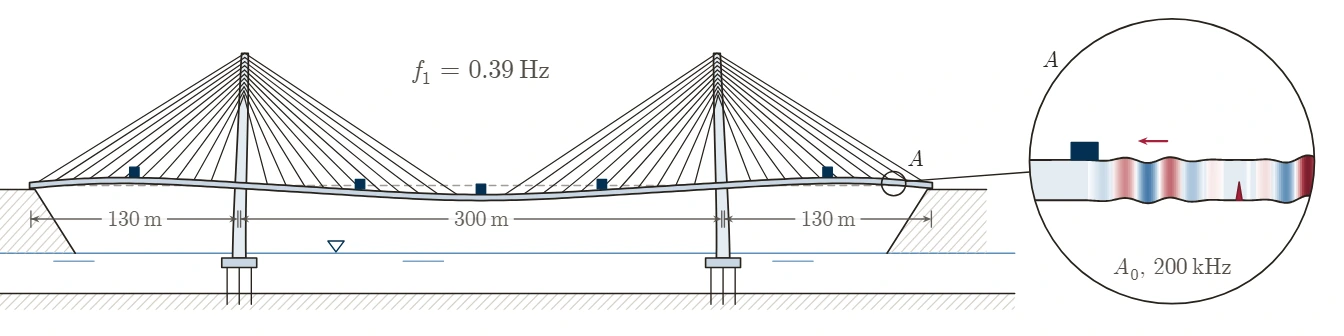
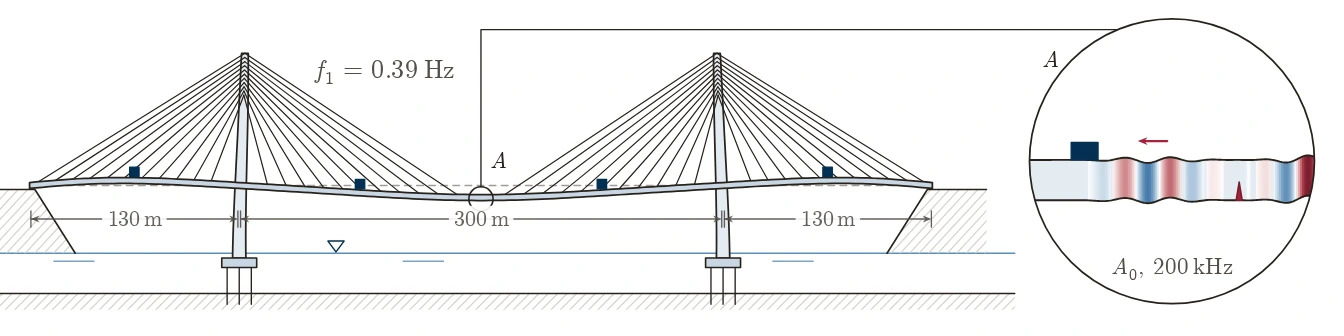
fix: detail A of the waves cover at the middle of the main span
The client (30 Sep 2026): A in the middle of the bridge, not at its edge.
Detail A now sits at mid main span, where the first mode bends the deck most
and its sagging puts the bottom flange in tension. Its leader rises between
the two fans of stays and runs over the pylon tops to the detail circle (a
straight line would cross the right pylon); the mode's frequency moves left
of it and the midspan accelerometer gives way to the detail. The overlap
check passes to the poster.

Claude-Session: https://claude.ai/code/session_01SQRfPKazL8R4BSZNKNMKJj

diff --git a/content/anim/nf-wt-cover.html b/content/anim/nf-wt-cover.html
@@ -30,7 +30,7 @@ html,body{margin:0;padding:0;background:#fff;}
 </div>
 <script>
 const W = 1000, H = 250;
-const DATA = {"f1":0.39225,"tot":560.0,"xp":[130.0,430.0],"hp":82.0,"hb":45.0,"deck":[[0.0,-0.0,-0.0],[4.0,-6.49906e-05,0.04841],[8.0,-0.00017451,0.0959],[12.0,-0.000284029,0.14172],[14.0,-0.000356144,0.16377],[18.0,-0.000535088,0.20578],[22.0,-0.000714027,0.24463],[26.0,-0.000918086,0.27987],[30.0,-0.00115,0.31119],[34.0,-0.00138,0.33837],[36.0,-0.0015,0.35035],[40.0,-0.00176,0.37103],[44.0,-0.00202,0.38733],[48.0,-0.00229,0.39925],[52.0,-0.00257,0.40685],[56.0,-0.00286,0.41028],[58.0,-0.003,0.41046],[62.0,-0.00328,0.40791],[66.0,-0.00357,0.40162],[70.0,-0.00386,0.39184],[74.0,-0.00415,0.3788],[78.0,-0.00443,0.36277],[80.0,-0.00457,0.35372],[84.0,-0.00485,0.33371],[88.0,-0.00514,0.31139],[92.0,-0.00541,0.28702],[96.0,-0.00569,0.26087],[100.0,-0.00596,0.23319],[102.0,-0.0061,0.21884],[106.0,-0.00637,0.18931],[110.0,-0.00664,0.15882],[114.0,-0.00691,0.12759],[118.0,-0.00718,0.09582],[122.0,-0.00744,0.06368],[126.0,-0.00771,0.03138],[130.0,-0.00798,-0.000916424],[134.0,-0.00825,-0.03305],[138.0,-0.00851,-0.06503],[142.0,-0.00878,-0.09692],[146.0,-0.00905,-0.12877],[150.0,-0.00931,-0.16065],[154.0,-0.00958,-0.1926],[158.0,-0.00984,-0.22466],[162.0,-0.0101,-0.25687],[166.0,-0.01036,-0.28926],[170.0,-0.01062,-0.32183],[174.0,-0.01088,-0.35459],[178.0,-0.01113,-0.38753],[182.0,-0.01138,-0.42061],[186.0,-0.01162,-0.45381],[190.0,-0.01186,-0.48707],[194.0,-0.01209,-0.52033],[198.0,-0.01232,-0.55351],[202.0,-0.01254,-0.58653],[206.0,-0.01275,-0.61927],[210.0,-0.01296,-0.65163],[214.0,-0.01316,-0.68348],[218.0,-0.01336,-0.71468],[222.0,-0.01354,-0.7451],[226.0,-0.01371,-0.77458],[230.0,-0.01388,-0.80296],[234.0,-0.01404,-0.83008],[238.0,-0.01419,-0.85578],[242.0,-0.01434,-0.87988],[246.0,-0.01447,-0.90222],[250.0,-0.01459,-0.92265],[254.0,-0.01471,-0.94098],[258.0,-0.01482,-0.95708],[262.0,-0.01491,-0.9708],[266.0,-0.01501,-0.98201],[270.0,-0.0151,-0.9906],[274.0,-0.01517,-0.99647],[278.0,-0.01525,-0.99953],[282.0,-0.01532,-0.99975],[286.0,-0.0154,-0.99712],[290.0,-0.01547,-0.99166],[294.0,-0.01556,-0.98347],[298.0,-0.01565,-0.97263],[302.0,-0.01575,-0.95924],[306.0,-0.01585,-0.94343],[310.0,-0.01597,-0.92535],[314.0,-0.01608,-0.90514],[318.0,-0.01621,-0.88296],[322.0,-0.01635,-0.85898],[326.0,-0.0165,-0.83336],[330.0,-0.01665,-0.80628],[334.0,-0.01682,-0.7779],[338.0,-0.01698,-0.74837],[342.0,-0.01716,-0.71788],[346.0,-0.01735,-0.68657],[350.0,-0.01754,-0.65459],[354.0,-0.01774,-0.62208],[358.0,-0.01795,-0.58917],[362.0,-0.01816,-0.55597],[366.0,-0.01838,-0.52259],[370.0,-0.01861,-0.48914],[374.0,-0.01884,-0.45567],[378.0,-0.01908,-0.42227],[382.0,-0.01932,-0.389],[386.0,-0.01956,-0.35587],[390.0,-0.01981,-0.32294],[394.0,-0.02006,-0.29021],[398.0,-0.02031,-0.25767],[402.0,-0.02056,-0.22531],[406.0,-0.02082,-0.19313],[410.0,-0.02107,-0.16107],[414.0,-0.02133,-0.12909],[418.0,-0.02159,-0.09715],[422.0,-0.02184,-0.06518],[426.0,-0.0221,-0.03313],[430.0,-0.02236,-0.000919538],[434.0,-0.02261,0.03145],[438.0,-0.02287,0.06384],[442.0,-0.02313,0.09607],[446.0,-0.02338,0.12794],[450.0,-0.02364,0.15928],[454.0,-0.0239,0.18989],[458.0,-0.02416,0.21955],[460.0,-0.02429,0.23396],[464.0,-0.02455,0.2618],[468.0,-0.02482,0.28811],[472.0,-0.02508,0.31264],[476.0,-0.02535,0.33514],[480.0,-0.02562,0.35532],[482.0,-0.02576,0.36445],[486.0,-0.02603,0.38065],[490.0,-0.0263,0.39385],[494.0,-0.02658,0.40378],[498.0,-0.02685,0.41019],[502.0,-0.02713,0.41285],[504.0,-0.02726,0.41271],[508.0,-0.02753,0.40935],[512.0,-0.02779,0.40178],[516.0,-0.02805,0.38986],[520.0,-0.0283,0.37353],[524.0,-0.02855,0.35277],[526.0,-0.02866,0.34073],[530.0,-0.02888,0.31341],[534.0,-0.02909,0.28191],[538.0,-0.02928,0.24644],[542.0,-0.02944,0.20732],[546.0,-0.0296,0.16501],[548.0,-0.02966,0.1428],[552.0,-0.02975,0.09663],[556.0,-0.02985,0.04878],[560.0,-0.02989,-0.0]],"pyl":[[[-45.0,-0.0,-0.0],[-39.0,0.00281,-0.000122208],[-33.0,0.01086,-0.000244413],[-27.0,0.02355,-0.000366615],[-21.0,0.04029,-0.000488811],[-15.0,0.0605,-0.000610999],[-9.0,0.0836,-0.000733178],[-3.0,0.10903,-0.000855346],[1.0,0.127,-0.000939741],[7.0,0.1551,-0.00108],[13.0,0.18412,-0.00122],[19.0,0.21357,-0.00136],[25.0,0.24302,-0.0015],[31.0,0.27205,-0.00164],[37.0,0.30032,-0.00178],[43.0,0.32752,-0.00192],[49.0,0.35341,-0.00206],[55.0,0.3778,-0.0022],[58.6,0.39166,-0.00228],[61.2,0.40131,-0.00234],[65.0,0.41487,-0.00243],[69.0,0.42852,-0.00252],[73.0,0.44165,-0.00259],[76.8,0.45378,-0.00264],[79.4,0.46199,-0.00267],[82.0,0.47016,-0.00268]],[[-45.0,-0.0,-0.0],[-39.0,-0.00301,-0.000122623],[-33.0,-0.01162,-0.000245244],[-27.0,-0.0252,-0.000367861],[-21.0,-0.04313,-0.000490472],[-15.0,-0.06478,-0.000613076],[-9.0,-0.08953,-0.00073567],[-3.0,-0.11679,-0.000858252],[1.0,-0.13606,-0.000942937],[7.0,-0.16621,-0.00108],[13.0,-0.19737,-0.00122],[19.0,-0.22901,-0.00136],[25.0,-0.26067,-0.0015],[31.0,-0.29192,-0.00164],[37.0,-0.32239,-0.00178],[43.0,-0.35175,-0.00193],[49.0,-0.37974,-0.00207],[55.0,-0.40617,-0.00221],[58.6,-0.42123,-0.00229],[61.2,-0.43173,-0.00235],[65.0,-0.44652,-0.00244],[69.0,-0.46143,-0.00252],[73.0,-0.47579,-0.0026],[76.8,-0.4891,-0.00265],[79.4,-0.4981,-0.00268],[82.0,-0.50707,-0.00269]]],"stay":[[130.0,56.0,0.38171,-0.00222,148.0,-0.00918,-0.1447],[130.0,56.0,0.38171,-0.00222,112.0,-0.00678,0.14329],[130.0,58.6,0.39166,-0.00228,160.0,-0.00997,-0.24074],[130.0,58.6,0.39166,-0.00228,101.0,-0.00603,0.22605],[130.0,61.2,0.40131,-0.00234,172.0,-0.01075,-0.33819],[130.0,61.2,0.40131,-0.00234,90.0,-0.00528,0.29945],[130.0,63.8,0.41066,-0.0024,184.0,-0.0115,-0.4372],[130.0,63.8,0.41066,-0.0024,79.0,-0.0045,0.35833],[130.0,66.4,0.41972,-0.00246,196.0,-0.01221,-0.53693],[130.0,66.4,0.41972,-0.00246,68.0,-0.00372,0.39715],[130.0,69.0,0.42852,-0.00252,208.0,-0.01286,-0.6355],[130.0,69.0,0.42852,-0.00252,57.0,-0.00293,0.41049],[130.0,71.6,0.4371,-0.00257,220.0,-0.01345,-0.73],[130.0,71.6,0.4371,-0.00257,46.0,-0.00215,0.39383],[130.0,74.2,0.44551,-0.00261,232.0,-0.01397,-0.81669],[130.0,74.2,0.44551,-0.00261,35.0,-0.00143,0.3445],[130.0,76.8,0.45378,-0.00264,244.0,-0.01441,-0.89128],[130.0,76.8,0.45378,-0.00264,24.0,-0.000803495,0.26273],[130.0,79.4,0.46199,-0.00267,256.0,-0.01477,-0.94931],[130.0,79.4,0.46199,-0.00267,13.0,-0.000311408,0.15282],[130.0,82.0,0.47016,-0.00268,268.0,-0.01506,-0.98664],[130.0,82.0,0.47016,-0.00268,2.0,-1.02305e-05,0.02427],[430.0,56.0,-0.41042,-0.00223,412.0,-0.0212,-0.14507],[430.0,56.0,-0.41042,-0.00223,448.0,-0.02351,0.14369],[430.0,58.6,-0.42123,-0.00229,400.0,-0.02043,-0.24147],[430.0,58.6,-0.42123,-0.00229,459.0,-0.02422,0.2268],[430.0,61.2,-0.43173,-0.00235,388.0,-0.01968,-0.33938],[430.0,61.2,-0.43173,-0.00235,470.0,-0.02495,0.30062],[430.0,63.8,-0.44192,-0.00241,376.0,-0.01896,-0.43896],[430.0,63.8,-0.44192,-0.00241,481.0,-0.02569,0.35997],[430.0,66.4,-0.45181,-0.00247,364.0,-0.01827,-0.53929],[430.0,66.4,-0.45181,-0.00247,492.0,-0.02644,0.39923],[430.0,69.0,-0.46143,-0.00252,352.0,-0.01764,-0.63839],[430.0,69.0,-0.46143,-0.00252,503.0,-0.0272,0.41291],[430.0,71.6,-0.47082,-0.00257,340.0,-0.01707,-0.73323],[430.0,71.6,-0.47082,-0.00257,514.0,-0.02793,0.39637],[430.0,74.2,-0.48002,-0.00262,328.0,-0.01657,-0.81999],[430.0,74.2,-0.48002,-0.00262,525.0,-0.02861,0.34689],[430.0,76.8,-0.4891,-0.00265,316.0,-0.01614,-0.89428],[430.0,76.8,-0.4891,-0.00265,536.0,-0.0292,0.26465],[430.0,79.4,-0.4981,-0.00268,304.0,-0.01579,-0.95162],[430.0,79.4,-0.4981,-0.00268,547.0,-0.02964,0.15399],[430.0,82.0,-0.50707,-0.00269,292.0,-0.01551,-0.9879],[430.0,82.0,-0.50707,-0.00269,558.0,-0.02989,0.02446]],"w":{"k":[88.74647,101.08338,112.75358,123.95439,134.81093,145.4077,155.80453,166.04523,176.16283,186.18279,196.12505,206.0055,215.83696,225.62983,235.39268,245.13257,254.85539,264.56604,274.26865,283.96666,293.663,303.36012,313.0601,322.76466,332.47529,342.19322,351.91948,361.65493,371.40028,381.15611,390.92291,400.70106,410.49086,420.29254,430.10627,439.93218,449.77034,459.62079,469.48355,479.35858,489.24585,499.14529,509.05682,518.98035,528.91577,538.86297,548.82183,558.79221,568.77398,578.767,588.77113,598.78623,608.81215,618.84874,628.89587,638.95338,649.02112,659.09896,669.18675,679.28433,689.39158,699.50834,709.63449,719.76987,729.91435,740.0678,750.23007,760.40104,770.58057,780.76853,790.96479,801.16921,811.38167,821.60205,831.8302,842.06601,852.30935,862.5601,872.81813,883.08331,893.35552,903.63465,913.92057,924.21315,934.51227,944.81783,955.12968,965.44772,975.77183],"f":[20000.0,25000.0,30000.0,35000.0,40000.0,45000.0,50000.0,55000.0,60000.0,65000.0,70000.0,75000.0,80000.0,85000.0,90000.0,95000.0,100000.0,105000.0,110000.0,115000.0,120000.0,125000.0,130000.0,135000.0,140000.0,145000.0,150000.0,155000.0,160000.0,165000.0,170000.0,175000.0,180000.0,185000.0,190000.0,195000.0,200000.0,205000.0,210000.0,215000.0,220000.0,225000.0,230000.0,235000.0,240000.0,245000.0,250000.0,255000.0,260000.0,265000.0,270000.0,275000.0,280000.0,285000.0,290000.0,295000.0,300000.0,305000.0,310000.0,315000.0,320000.0,325000.0,330000.0,335000.0,340000.0,345000.0,350000.0,355000.0,360000.0,365000.0,370000.0,375000.0,380000.0,385000.0,390000.0,395000.0,400000.0,405000.0,410000.0,415000.0,420000.0,425000.0,430000.0,435000.0,440000.0,445000.0,450000.0,455000.0,460000.0],"ar":[-0.000699405,-0.000949437,-0.00114,-0.00123,-0.0012,-0.00104,-0.000774784,-0.000464119,-0.000179742,-1.29519e-05,-5.8135e-05,-0.000397067,-0.00108,-0.00212,-0.00346,-0.00498,-0.0065,-0.00781,-0.00863,-0.00872,-0.00785,-0.00587,-0.00272,0.00153,0.00666,0.01234,0.01815,0.02356,0.02805,0.03112,0.03238,0.03156,0.02857,0.02354,0.01677,0.00872,7.94093e-19,-0.00873,-0.01679,-0.02359,-0.02865,-0.03166,-0.03249,-0.03124,-0.02816,-0.02365,-0.01821,-0.01238,-0.00667,-0.00153,0.00271,0.00584,0.0078,0.00863,0.00851,0.00766,0.00634,0.00481,0.00331,0.00201,0.00101,0.000366969,5.28616e-05,1.15585e-05,0.000156996,0.00039556,0.000642156,0.000831933,0.000926618,0.000915378,0.000811002,0.000642807,0.000448003,0.000263215,0.000117603,2.85078e-05,0.0,2.41374e-05,8.42839e-05,0.000159578,0.000229553,0.000278026,0.000295628,0.00028067,0.000238424,0.000179135,0.000115333,5.90315e-05,1.93809e-05],"ai":[0.000508148,0.00039327,0.000180475,-9.6779e-05,-0.000388558,-0.00063487,-0.000774784,-0.000757374,-0.000553189,-0.000164569,0.00036705,0.000958605,0.00149,0.00181,0.00176,0.00119,-2.11758e-18,-0.00187,-0.0044,-0.00745,-0.0108,-0.01416,-0.01715,-0.01939,-0.02049,-0.02014,-0.01815,-0.01444,-0.00911,-0.00245,0.00513,0.01307,0.02076,0.02756,0.03291,0.03632,0.0375,0.03634,0.03295,0.02762,0.02082,0.01311,0.00515,-0.00246,-0.00915,-0.01449,-0.01821,-0.0202,-0.02053,-0.0194,-0.01713,-0.01411,-0.01073,-0.00737,-0.00434,-0.00184,4.23516e-18,0.00116,0.00169,0.00172,0.0014,0.000885941,0.000333755,-0.000146864,-0.000483184,-0.000645496,-0.000642156,-0.000509809,-0.000301076,-7.20418e-05,0.00012845,0.000266259,0.000325493,0.000308186,0.00023081,0.000118743,-5.29396e-19,-0.00010054,-0.000165416,-0.000186842,-0.00016678,-0.000115162,-4.68228e-05,2.20892e-05,7.74686e-05,0.000109774,0.000115333,9.63307e-05,5.96484e-05],"xt":-0.026,"xc":0.02,"R":0.5,"T":0.86603,"P":8e-05,"slow":40000.0,"peak":1.33629,"th":0.012,"cg":3191.27864,"tb":1.5e-05}};
+const DATA = {"f1":0.39225,"tot":560.0,"xp":[130.0,430.0],"hp":82.0,"hb":45.0,"deck":[[0.0,0.0,0.0],[4.0,-6.49906e-05,0.04841],[8.0,-0.00017451,0.0959],[12.0,-0.000284029,0.14172],[14.0,-0.000356144,0.16377],[18.0,-0.000535087,0.20578],[22.0,-0.000714027,0.24463],[26.0,-0.000918086,0.27987],[30.0,-0.00115,0.31119],[34.0,-0.00138,0.33837],[36.0,-0.0015,0.35035],[40.0,-0.00176,0.37103],[44.0,-0.00202,0.38733],[48.0,-0.00229,0.39925],[52.0,-0.00257,0.40685],[56.0,-0.00286,0.41028],[58.0,-0.003,0.41046],[62.0,-0.00328,0.40791],[66.0,-0.00357,0.40162],[70.0,-0.00386,0.39184],[74.0,-0.00415,0.3788],[78.0,-0.00443,0.36277],[80.0,-0.00457,0.35372],[84.0,-0.00485,0.33371],[88.0,-0.00514,0.31139],[92.0,-0.00541,0.28702],[96.0,-0.00569,0.26087],[100.0,-0.00596,0.23319],[102.0,-0.0061,0.21884],[106.0,-0.00637,0.18931],[110.0,-0.00664,0.15882],[114.0,-0.00691,0.12759],[118.0,-0.00718,0.09582],[122.0,-0.00744,0.06368],[126.0,-0.00771,0.03138],[130.0,-0.00798,-0.000916425],[134.0,-0.00825,-0.03305],[138.0,-0.00851,-0.06503],[142.0,-0.00878,-0.09692],[146.0,-0.00905,-0.12877],[150.0,-0.00931,-0.16065],[154.0,-0.00958,-0.1926],[158.0,-0.00984,-0.22466],[162.0,-0.0101,-0.25687],[166.0,-0.01036,-0.28926],[170.0,-0.01062,-0.32183],[174.0,-0.01088,-0.35459],[178.0,-0.01113,-0.38753],[182.0,-0.01138,-0.42061],[186.0,-0.01162,-0.45381],[190.0,-0.01186,-0.48707],[194.0,-0.01209,-0.52033],[198.0,-0.01232,-0.55351],[202.0,-0.01254,-0.58653],[206.0,-0.01275,-0.61927],[210.0,-0.01296,-0.65163],[214.0,-0.01316,-0.68348],[218.0,-0.01336,-0.71468],[222.0,-0.01354,-0.7451],[226.0,-0.01371,-0.77458],[230.0,-0.01388,-0.80296],[234.0,-0.01404,-0.83008],[238.0,-0.01419,-0.85578],[242.0,-0.01434,-0.87988],[246.0,-0.01447,-0.90222],[250.0,-0.01459,-0.92265],[254.0,-0.01471,-0.94098],[258.0,-0.01482,-0.95708],[262.0,-0.01491,-0.9708],[266.0,-0.01501,-0.98201],[270.0,-0.0151,-0.9906],[274.0,-0.01517,-0.99647],[278.0,-0.01525,-0.99953],[282.0,-0.01532,-0.99975],[286.0,-0.0154,-0.99712],[290.0,-0.01547,-0.99166],[294.0,-0.01556,-0.98347],[298.0,-0.01565,-0.97263],[302.0,-0.01575,-0.95924],[306.0,-0.01585,-0.94343],[310.0,-0.01597,-0.92535],[314.0,-0.01608,-0.90514],[318.0,-0.01621,-0.88296],[322.0,-0.01635,-0.85898],[326.0,-0.0165,-0.83336],[330.0,-0.01665,-0.80628],[334.0,-0.01682,-0.7779],[338.0,-0.01698,-0.74837],[342.0,-0.01716,-0.71788],[346.0,-0.01735,-0.68657],[350.0,-0.01754,-0.65459],[354.0,-0.01774,-0.62208],[358.0,-0.01795,-0.58917],[362.0,-0.01816,-0.55597],[366.0,-0.01838,-0.52259],[370.0,-0.01861,-0.48914],[374.0,-0.01884,-0.45567],[378.0,-0.01908,-0.42227],[382.0,-0.01932,-0.389],[386.0,-0.01956,-0.35587],[390.0,-0.01981,-0.32294],[394.0,-0.02006,-0.29021],[398.0,-0.02031,-0.25767],[402.0,-0.02056,-0.22531],[406.0,-0.02082,-0.19313],[410.0,-0.02107,-0.16107],[414.0,-0.02133,-0.12909],[418.0,-0.02159,-0.09715],[422.0,-0.02184,-0.06518],[426.0,-0.0221,-0.03313],[430.0,-0.02236,-0.000919539],[434.0,-0.02261,0.03145],[438.0,-0.02287,0.06384],[442.0,-0.02313,0.09607],[446.0,-0.02338,0.12794],[450.0,-0.02364,0.15928],[454.0,-0.0239,0.18989],[458.0,-0.02416,0.21955],[460.0,-0.02429,0.23396],[464.0,-0.02455,0.2618],[468.0,-0.02482,0.28811],[472.0,-0.02508,0.31264],[476.0,-0.02535,0.33514],[480.0,-0.02562,0.35532],[482.0,-0.02576,0.36445],[486.0,-0.02603,0.38065],[490.0,-0.0263,0.39385],[494.0,-0.02658,0.40378],[498.0,-0.02685,0.41019],[502.0,-0.02713,0.41285],[504.0,-0.02726,0.41271],[508.0,-0.02753,0.40935],[512.0,-0.02779,0.40178],[516.0,-0.02805,0.38986],[520.0,-0.0283,0.37353],[524.0,-0.02855,0.35277],[526.0,-0.02866,0.34073],[530.0,-0.02888,0.31341],[534.0,-0.02909,0.28191],[538.0,-0.02928,0.24644],[542.0,-0.02944,0.20732],[546.0,-0.0296,0.16501],[548.0,-0.02966,0.1428],[552.0,-0.02975,0.09663],[556.0,-0.02985,0.04878],[560.0,-0.02989,0.0]],"pyl":[[[-45.0,0.0,0.0],[-39.0,0.00281,-0.000122208],[-33.0,0.01086,-0.000244413],[-27.0,0.02355,-0.000366615],[-21.0,0.04029,-0.000488811],[-15.0,0.0605,-0.000611],[-9.0,0.0836,-0.000733179],[-3.0,0.10903,-0.000855346],[1.0,0.127,-0.000939741],[7.0,0.1551,-0.00108],[13.0,0.18412,-0.00122],[19.0,0.21357,-0.00136],[25.0,0.24302,-0.0015],[31.0,0.27205,-0.00164],[37.0,0.30032,-0.00178],[43.0,0.32752,-0.00192],[49.0,0.35341,-0.00206],[55.0,0.3778,-0.0022],[58.6,0.39166,-0.00228],[61.2,0.40131,-0.00234],[65.0,0.41487,-0.00243],[69.0,0.42852,-0.00252],[73.0,0.44165,-0.00259],[76.8,0.45378,-0.00264],[79.4,0.46199,-0.00267],[82.0,0.47016,-0.00268]],[[-45.0,0.0,0.0],[-39.0,-0.00301,-0.000122623],[-33.0,-0.01162,-0.000245244],[-27.0,-0.0252,-0.000367861],[-21.0,-0.04313,-0.000490472],[-15.0,-0.06478,-0.000613076],[-9.0,-0.08953,-0.00073567],[-3.0,-0.11679,-0.000858252],[1.0,-0.13606,-0.000942937],[7.0,-0.16621,-0.00108],[13.0,-0.19737,-0.00122],[19.0,-0.22901,-0.00136],[25.0,-0.26067,-0.0015],[31.0,-0.29192,-0.00164],[37.0,-0.32239,-0.00178],[43.0,-0.35175,-0.00193],[49.0,-0.37974,-0.00207],[55.0,-0.40617,-0.00221],[58.6,-0.42123,-0.00229],[61.2,-0.43173,-0.00235],[65.0,-0.44652,-0.00244],[69.0,-0.46143,-0.00252],[73.0,-0.47579,-0.0026],[76.8,-0.4891,-0.00265],[79.4,-0.4981,-0.00268],[82.0,-0.50707,-0.00269]]],"stay":[[130.0,56.0,0.38171,-0.00222,148.0,-0.00918,-0.1447],[130.0,56.0,0.38171,-0.00222,112.0,-0.00678,0.14329],[130.0,58.6,0.39166,-0.00228,160.0,-0.00997,-0.24074],[130.0,58.6,0.39166,-0.00228,101.0,-0.00603,0.22605],[130.0,61.2,0.40131,-0.00234,172.0,-0.01075,-0.33819],[130.0,61.2,0.40131,-0.00234,90.0,-0.00528,0.29944],[130.0,63.8,0.41066,-0.0024,184.0,-0.0115,-0.4372],[130.0,63.8,0.41066,-0.0024,79.0,-0.0045,0.35833],[130.0,66.4,0.41972,-0.00246,196.0,-0.01221,-0.53693],[130.0,66.4,0.41972,-0.00246,68.0,-0.00372,0.39715],[130.0,69.0,0.42852,-0.00252,208.0,-0.01286,-0.6355],[130.0,69.0,0.42852,-0.00252,57.0,-0.00293,0.41049],[130.0,71.6,0.4371,-0.00257,220.0,-0.01345,-0.73],[130.0,71.6,0.4371,-0.00257,46.0,-0.00215,0.39383],[130.0,74.2,0.44551,-0.00261,232.0,-0.01397,-0.81669],[130.0,74.2,0.44551,-0.00261,35.0,-0.00143,0.3445],[130.0,76.8,0.45378,-0.00264,244.0,-0.01441,-0.89128],[130.0,76.8,0.45378,-0.00264,24.0,-0.000803495,0.26273],[130.0,79.4,0.46199,-0.00267,256.0,-0.01477,-0.94931],[130.0,79.4,0.46199,-0.00267,13.0,-0.000311408,0.15282],[130.0,82.0,0.47016,-0.00268,268.0,-0.01506,-0.98664],[130.0,82.0,0.47016,-0.00268,2.0,-1.02305e-05,0.02427],[430.0,56.0,-0.41042,-0.00223,412.0,-0.0212,-0.14507],[430.0,56.0,-0.41042,-0.00223,448.0,-0.02351,0.14369],[430.0,58.6,-0.42123,-0.00229,400.0,-0.02043,-0.24147],[430.0,58.6,-0.42123,-0.00229,459.0,-0.02422,0.2268],[430.0,61.2,-0.43173,-0.00235,388.0,-0.01968,-0.33938],[430.0,61.2,-0.43173,-0.00235,470.0,-0.02495,0.30062],[430.0,63.8,-0.44192,-0.00241,376.0,-0.01896,-0.43896],[430.0,63.8,-0.44192,-0.00241,481.0,-0.02569,0.35997],[430.0,66.4,-0.45181,-0.00247,364.0,-0.01827,-0.53929],[430.0,66.4,-0.45181,-0.00247,492.0,-0.02644,0.39923],[430.0,69.0,-0.46143,-0.00252,352.0,-0.01764,-0.63839],[430.0,69.0,-0.46143,-0.00252,503.0,-0.0272,0.41291],[430.0,71.6,-0.47082,-0.00257,340.0,-0.01707,-0.73323],[430.0,71.6,-0.47082,-0.00257,514.0,-0.02793,0.39637],[430.0,74.2,-0.48002,-0.00262,328.0,-0.01657,-0.81999],[430.0,74.2,-0.48002,-0.00262,525.0,-0.02861,0.34689],[430.0,76.8,-0.4891,-0.00265,316.0,-0.01614,-0.89428],[430.0,76.8,-0.4891,-0.00265,536.0,-0.0292,0.26465],[430.0,79.4,-0.4981,-0.00268,304.0,-0.01579,-0.95162],[430.0,79.4,-0.4981,-0.00268,547.0,-0.02964,0.15399],[430.0,82.0,-0.50707,-0.00269,292.0,-0.01551,-0.9879],[430.0,82.0,-0.50707,-0.00269,558.0,-0.02989,0.02446]],"w":{"k":[88.74647,101.08338,112.75358,123.95439,134.81093,145.4077,155.80453,166.04523,176.16283,186.18279,196.12505,206.0055,215.83696,225.62983,235.39268,245.13257,254.85539,264.56604,274.26865,283.96666,293.663,303.36012,313.0601,322.76466,332.47529,342.19322,351.91948,361.65493,371.40028,381.15611,390.92291,400.70106,410.49086,420.29254,430.10627,439.93218,449.77034,459.62079,469.48355,479.35858,489.24585,499.14529,509.05682,518.98035,528.91577,538.86297,548.82183,558.79221,568.77398,578.767,588.77113,598.78623,608.81215,618.84874,628.89587,638.95338,649.02112,659.09896,669.18675,679.28433,689.39158,699.50834,709.63449,719.76987,729.91435,740.0678,750.23007,760.40104,770.58057,780.76853,790.96479,801.16921,811.38167,821.60205,831.8302,842.06601,852.30935,862.5601,872.81813,883.08331,893.35552,903.63465,913.92057,924.21315,934.51227,944.81783,955.12968,965.44772,975.77183],"f":[20000.0,25000.0,30000.0,35000.0,40000.0,45000.0,50000.0,55000.0,60000.0,65000.0,70000.0,75000.0,80000.0,85000.0,90000.0,95000.0,100000.0,105000.0,110000.0,115000.0,120000.0,125000.0,130000.0,135000.0,140000.0,145000.0,150000.0,155000.0,160000.0,165000.0,170000.0,175000.0,180000.0,185000.0,190000.0,195000.0,200000.0,205000.0,210000.0,215000.0,220000.0,225000.0,230000.0,235000.0,240000.0,245000.0,250000.0,255000.0,260000.0,265000.0,270000.0,275000.0,280000.0,285000.0,290000.0,295000.0,300000.0,305000.0,310000.0,315000.0,320000.0,325000.0,330000.0,335000.0,340000.0,345000.0,350000.0,355000.0,360000.0,365000.0,370000.0,375000.0,380000.0,385000.0,390000.0,395000.0,400000.0,405000.0,410000.0,415000.0,420000.0,425000.0,430000.0,435000.0,440000.0,445000.0,450000.0,455000.0,460000.0],"ar":[-0.000699405,-0.000949437,-0.00114,-0.00123,-0.0012,-0.00104,-0.000774784,-0.000464119,-0.000179742,-1.29519e-05,-5.8135e-05,-0.000397067,-0.00108,-0.00212,-0.00346,-0.00498,-0.0065,-0.00781,-0.00863,-0.00872,-0.00785,-0.00587,-0.00272,0.00153,0.00666,0.01234,0.01815,0.02356,0.02805,0.03112,0.03238,0.03156,0.02857,0.02354,0.01677,0.00872,7.94093e-19,-0.00873,-0.01679,-0.02359,-0.02865,-0.03166,-0.03249,-0.03124,-0.02816,-0.02365,-0.01821,-0.01238,-0.00667,-0.00153,0.00271,0.00584,0.0078,0.00863,0.00851,0.00766,0.00634,0.00481,0.00331,0.00201,0.00101,0.000366969,5.28616e-05,1.15585e-05,0.000156996,0.00039556,0.000642156,0.000831933,0.000926618,0.000915378,0.000811002,0.000642807,0.000448003,0.000263215,0.000117603,2.85078e-05,-1.05879e-18,2.41374e-05,8.42839e-05,0.000159578,0.000229553,0.000278026,0.000295628,0.00028067,0.000238424,0.000179135,0.000115333,5.90315e-05,1.93809e-05],"ai":[0.000508148,0.00039327,0.000180475,-9.6779e-05,-0.000388558,-0.00063487,-0.000774784,-0.000757374,-0.000553189,-0.000164569,0.00036705,0.000958605,0.00149,0.00181,0.00176,0.00119,-2.11758e-18,-0.00187,-0.0044,-0.00745,-0.0108,-0.01416,-0.01715,-0.01939,-0.02049,-0.02014,-0.01815,-0.01444,-0.00911,-0.00245,0.00513,0.01307,0.02076,0.02756,0.03291,0.03632,0.0375,0.03634,0.03295,0.02762,0.02082,0.01311,0.00515,-0.00246,-0.00915,-0.01449,-0.01821,-0.0202,-0.02053,-0.0194,-0.01713,-0.01411,-0.01073,-0.00737,-0.00434,-0.00184,2.11758e-18,0.00116,0.00169,0.00172,0.0014,0.000885941,0.000333755,-0.000146864,-0.000483184,-0.000645496,-0.000642156,-0.000509809,-0.000301076,-7.20418e-05,0.00012845,0.000266259,0.000325493,0.000308186,0.00023081,0.000118743,-5.29396e-19,-0.00010054,-0.000165416,-0.000186842,-0.00016678,-0.000115162,-4.68228e-05,2.20892e-05,7.74686e-05,0.000109774,0.000115333,9.63307e-05,5.96484e-05],"xt":-0.026,"xc":0.02,"R":0.5,"T":0.86603,"P":8e-05,"slow":40000.0,"peak":1.33629,"th":0.012,"cg":3191.27864,"tb":1.5e-05}};
 /* numfig engine: the shared runtime of the figures redrawn from numerical
    models (tools/numfig/README.md). build_html() in common.py inlines it after
    `const W = ..., H = ...;` and the figure's DATA, and before the figure's own
@@ -123,15 +123,19 @@ pp.addEventListener('click', e => { e.stopPropagation(); setPlay(!playing); });
 document.getElementById('rs').addEventListener('click', e => {
   e.stopPropagation(); t = 0; if (typeof reset === 'function') reset(); setPlay(true); render();
 });
-cv.addEventListener('click', () => setPlay(!playing));
+cv.addEventListener('click', () => { if (!_quiet()) setPlay(!playing); });
 function loop(ts) {
   if (last === null) last = ts;
   const dt = Math.min((ts - last) / 1000, 0.05); last = ts;
   if (playing && visible) { t += dt; if (typeof step === 'function') step(dt); render(); }
   requestAnimationFrame(loop);
 }
+/* a figure that sets `var QUIET = true` before boot() is an icon or a cover's
+   ornament: it plays once, draws no controls and ignores clicks */
+const _quiet = () => typeof QUIET !== 'undefined' && QUIET === true;   // exactly true: a figure's own QUIET list is not the flag
 function start() {
-  if (STILL) document.querySelector('.ctl').style.display = 'none';
+  if (STILL || _quiet()) document.querySelector('.ctl').style.display = 'none';
+  if (_quiet()) cv.style.cursor = 'default';
   setPlay(playing);
   if (!playing) t = posterT();
   new ResizeObserver(fit).observe(cv);
@@ -543,7 +547,8 @@ const AMP = 9;                                           // largest deck deflect
 const T0 = .3, T1 = 1 / DATA.f1;
 const WV = DATA.w, NF = WV.f.length;
 const CX = 872, CY = 120, CR = 106, DS = 2.5e3;         // detail circle, units per metre inside it
-const XA = 536;                                          // detail A on the deck (m), near the right abutment
+const XA = DATA.xp[0] + (DATA.xp[1] - DATA.xp[0]) / 2;   // detail A on the deck (m): the middle of the main span
+const YE = 22;                                           // its leader's run to the circle, over the pylon tops
 const POSTER_T = T0 + T1;                                // the deck back at full sag, the echo on its way
 const W_OFF = 30e-6 * WV.slow - T1;                     // the wave loop's phase at T0: the still shows the echo on its way back
 function q() { return t < T0 ? 1 : Math.cos(2 * Math.PI * DATA.f1 * (t - T0)); }   // from rest at full sag
@@ -650,23 +655,25 @@ function draw() {
   line(lo.concat(hi), { color: C.ink, width: 1.3, fill: C.steel2, close: true });
   ctx.restore();
   // accelerometers on the deck: mid side spans, the main span's quarter points
+  // (its middle is detail A's)
   const aS = settle(.2, .28);
-  for (const x of [65, 205, 280, 355, 495]) sensor(x, Q, aS);
+  for (const x of [65, 205, 355, 495]) sensor(x, Q, aS);
   // detail A: the flange at the NDT scale
   const aD = settle(.15, .28);
   const [ax, ay] = deckAt(XA, Q);
   ctx.save(); ctx.globalAlpha *= aD; ctx.beginPath(); ctx.arc(ax, ay + 1, 9, 0, 2 * Math.PI); ctx.lineWidth = 1.2; ctx.strokeStyle = C.ink; ctx.stroke(); ctx.restore();
-  const ang = Math.atan2(CY - ay, CX - ax), sx = ax + 9 * Math.cos(ang), sy = ay + 9 * Math.sin(ang);
-  const ex = CX - CR * Math.cos(ang), ey = CY - CR * Math.sin(ang);
-  line([[sx, sy], [ex, ey]], { color: C.ink, width: 1, progress: seg(.15, .25) });
+  // the leader: up from A between the two fans of stays, then over the
+  // pylon tops to the circle (a straight line would cross the right pylon)
+  const ex = CX - Math.sqrt(CR * CR - (CY - YE) * (CY - YE));
+  line([[ax, ay - 8], [ax, YE], [ex, YE]], { color: C.ink, width: 1, progress: seg(.15, .25) });
   const tw = t < T0 ? W_OFF / WV.slow : wrap((t - T0 + W_OFF) / WV.slow, WV.P);
   detail(aD, tw);
   // the few words: the mode's frequency, the wave's
   const aT = settle(.25, .28) * (NARROW() ? 0 : 1);
-  math('f_1 = ' + DATA.f1.toFixed(2) + '\\,\\rm{Hz}', XB(280), 58, { size: 19, color: C.body, align: 'center', alpha: aT });
+  math('f_1 = ' + DATA.f1.toFixed(2) + '\\,\\rm{Hz}', XB(220), 58, { size: 19, color: C.body, align: 'center', alpha: aT });
   const yd = YD + 25, spans = [[0, DATA.xp[0]], [DATA.xp[0], DATA.xp[1]], [DATA.xp[1], DATA.tot]];
   spans.forEach(([a0, a1]) => dim(XB(a0) + 1, XB(a1) - 1, yd, (a1 - a0).toFixed(0) + '\\,\\rm{m}', { size: 16, alpha: aT * .9, color: C.body }));
-  text('A', ax + 10, ay - 12, { size: 17, italic: true, color: C.ink, alpha: aT });
+  text('A', ax + 7, ay - 22, { size: 17, italic: true, color: C.ink, alpha: aT });
   text('A', CX - CR * .78 - 14, CY - CR * .66, { size: 17, italic: true, color: C.ink, alpha: aT });
   math('A_0,\\ 200\\,\\rm{kHz}', CX, CY + CR - 22, { size: 17, color: C.body, align: 'center', alpha: aT });
 }

diff --git a/tools/numfig/wt_cover.py b/tools/numfig/wt_cover.py
@@ -4,8 +4,11 @@ Left, a cable stayed bridge (130 + 300 + 130 m, steel box deck on 44 stays
 from two concrete pylons) in elevation, breathing in its first vertical
 bending mode, computed by a 2D finite element model (frame elements for
 the deck and pylons, truss elements for the stays) and shown in real time;
-accelerometers ride its deck. Right, detail A: the bottom flange of the
-box girder (a 12 mm steel plate) at the NDT scale, where a transducer
+accelerometers ride its deck. Right, detail A, at the middle of the main
+span (the client, 30 Sep 2026: A in the middle of the bridge, not at its
+edge), where the first mode bends the deck most and its sagging puts the
+bottom flange in tension: that flange of the box girder (a 12 mm steel
+plate) at the NDT scale, where a transducer
 launches a 200 kHz A0 Lamb wave packet (Fourier synthesis over the exact
 Rayleigh-Lamb dispersion) that a fatigue crack partly sends back.
 Global vibration at a fraction of a hertz, local guided waves at hundreds of
@@ -298,7 +301,8 @@ const AMP = 9;                                           // largest deck deflect
 const T0 = .3, T1 = 1 / DATA.f1;
 const WV = DATA.w, NF = WV.f.length;
 const CX = 872, CY = 120, CR = 106, DS = 2.5e3;         // detail circle, units per metre inside it
-const XA = 536;                                          // detail A on the deck (m), near the right abutment
+const XA = DATA.xp[0] + (DATA.xp[1] - DATA.xp[0]) / 2;   // detail A on the deck (m): the middle of the main span
+const YE = 22;                                           // its leader's run to the circle, over the pylon tops
 const POSTER_T = T0 + T1;                                // the deck back at full sag, the echo on its way
 const W_OFF = 30e-6 * WV.slow - T1;                     // the wave loop's phase at T0: the still shows the echo on its way back
 function q() { return t < T0 ? 1 : Math.cos(2 * Math.PI * DATA.f1 * (t - T0)); }   // from rest at full sag
@@ -405,23 +409,25 @@ function draw() {
   line(lo.concat(hi), { color: C.ink, width: 1.3, fill: C.steel2, close: true });
   ctx.restore();
   // accelerometers on the deck: mid side spans, the main span's quarter points
+  // (its middle is detail A's)
   const aS = settle(.2, .28);
-  for (const x of [65, 205, 280, 355, 495]) sensor(x, Q, aS);
+  for (const x of [65, 205, 355, 495]) sensor(x, Q, aS);
   // detail A: the flange at the NDT scale
   const aD = settle(.15, .28);
   const [ax, ay] = deckAt(XA, Q);
   ctx.save(); ctx.globalAlpha *= aD; ctx.beginPath(); ctx.arc(ax, ay + 1, 9, 0, 2 * Math.PI); ctx.lineWidth = 1.2; ctx.strokeStyle = C.ink; ctx.stroke(); ctx.restore();
-  const ang = Math.atan2(CY - ay, CX - ax), sx = ax + 9 * Math.cos(ang), sy = ay + 9 * Math.sin(ang);
-  const ex = CX - CR * Math.cos(ang), ey = CY - CR * Math.sin(ang);
-  line([[sx, sy], [ex, ey]], { color: C.ink, width: 1, progress: seg(.15, .25) });
+  // the leader: up from A between the two fans of stays, then over the
+  // pylon tops to the circle (a straight line would cross the right pylon)
+  const ex = CX - Math.sqrt(CR * CR - (CY - YE) * (CY - YE));
+  line([[ax, ay - 8], [ax, YE], [ex, YE]], { color: C.ink, width: 1, progress: seg(.15, .25) });
   const tw = t < T0 ? W_OFF / WV.slow : wrap((t - T0 + W_OFF) / WV.slow, WV.P);
   detail(aD, tw);
   // the few words: the mode's frequency, the wave's
   const aT = settle(.25, .28) * (NARROW() ? 0 : 1);
-  math('f_1 = ' + DATA.f1.toFixed(2) + '\\,\\rm{Hz}', XB(280), 58, { size: 19, color: C.body, align: 'center', alpha: aT });
+  math('f_1 = ' + DATA.f1.toFixed(2) + '\\,\\rm{Hz}', XB(220), 58, { size: 19, color: C.body, align: 'center', alpha: aT });
   const yd = YD + 25, spans = [[0, DATA.xp[0]], [DATA.xp[0], DATA.xp[1]], [DATA.xp[1], DATA.tot]];
   spans.forEach(([a0, a1]) => dim(XB(a0) + 1, XB(a1) - 1, yd, (a1 - a0).toFixed(0) + '\\,\\rm{m}', { size: 16, alpha: aT * .9, color: C.body }));
-  text('A', ax + 10, ay - 12, { size: 17, italic: true, color: C.ink, alpha: aT });
+  text('A', ax + 7, ay - 22, { size: 17, italic: true, color: C.ink, alpha: aT });
   text('A', CX - CR * .78 - 14, CY - CR * .66, { size: 17, italic: true, color: C.ink, alpha: aT });
   math('A_0,\\ 200\\,\\rm{kHz}', CX, CY + CR - 22, { size: 17, color: C.body, align: 'center', alpha: aT });
 }
